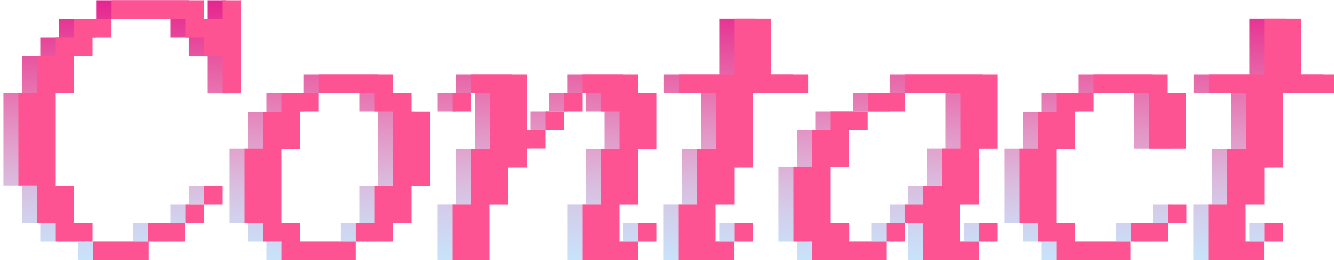
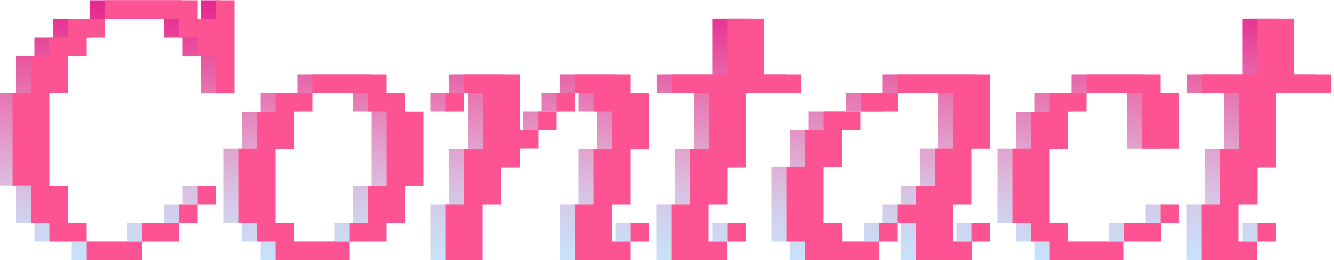
Updating

diff --git a/client/my-app/src/Home.js b/client/my-app/src/Home.js
@@ -9,9 +9,13 @@ import submitlogo from './images/submitlogo.png'
 import submitlogohover from './images/submitlogohover.png'
 import signupfor from './images/signupfor.png';
 import shop1 from './images/shop1.png';
+import shop2 from './images/shop2.png';
 import catalog1 from './images/catalog1.png';
+import catalog2 from './images/catalog2.png';
 import about1 from './images/about1.png';
+import about2 from './images/about2.png';
 import contact1 from './images/contact1.png';
+import contact2 from './images/contact2.png';
 import {useNavigate} from 'react-router-dom';
 import config from './config.json'
 AWS.config.update(config);
@@ -82,15 +86,66 @@ const Drop = styled.img`
 
 `;
 
+const changeOnHover = (image) => {
+    if (image == "shop") {
+        document.getElementById(image).src = shop2;
+        }
+    if (image == "aboutUs") {
+        document.getElementById(image).src = about2;
+        }
+    if (image == "contact") {
+            document.getElementById(image).src = contact2;
+            }
+    if (image == "catalog") {
+            document.getElementById(image).src = catalog2;
+            }
+    }
+
+const changeOnMouseOut = (image) => {
+    if (image == "shop") {
+       document.getElementById(image).src = shop1;
+       }
+    if (image == "aboutUs") {
+       document.getElementById(image).src = about1;
+       }
+    if (image == "contact") {
+        document.getElementById(image).src = contact1;
+        }
+    if (image == "catalog") {
+        document.getElementById(image).src = catalog1;
+        }
+}
 const Home = () => {
   return (
     <Container>
 		<Helene src={helene} alt="logo"/>
 		<Drop src={drop3} alt="drop"/>
-        <Shop src={shop1} alt="signup"/>
-        <AboutUs src={about1} alt="aboutus1"/>
-        <Contact src={contact1} alt="contact"/>
-        <Catalog src={catalog1} alt="catalog"/>
+        <Shop src={shop1} onMouseOver={() => {
+                          					changeOnHover("shop");
+                          				    }}
+                          				    onMouseOut={() => {
+                          					changeOnMouseOut("shop");
+                          			        }}
+                          			        alt="shopping" id="shop"/>
+        <AboutUs src={about1} alt="aboutus"
+         onMouseOver={() => {
+                                   					changeOnHover("aboutUs");
+                                   				    }}
+                                   				    onMouseOut={() => {
+                                   					changeOnMouseOut("aboutUs");
+                                   			        }} id="aboutUs"/>
+        <Contact src={contact1} onMouseOver={() => {
+                                                          					changeOnHover("contact");
+                                                          				    }}
+                                                          				    onMouseOut={() => {
+                                                          					changeOnMouseOut("contact");
+                                                          			        }} alt="contacting" id="contact"/>
+        <Catalog src={catalog1} onMouseOver={() => {
+                                                          					changeOnHover("catalog");
+                                                          				    }}
+                                                          				    onMouseOut={() => {
+                                                          					changeOnMouseOut("catalog");
+                                                          			        }} alt="catalogging" id="catalog"/>
 
     </Container>
 
